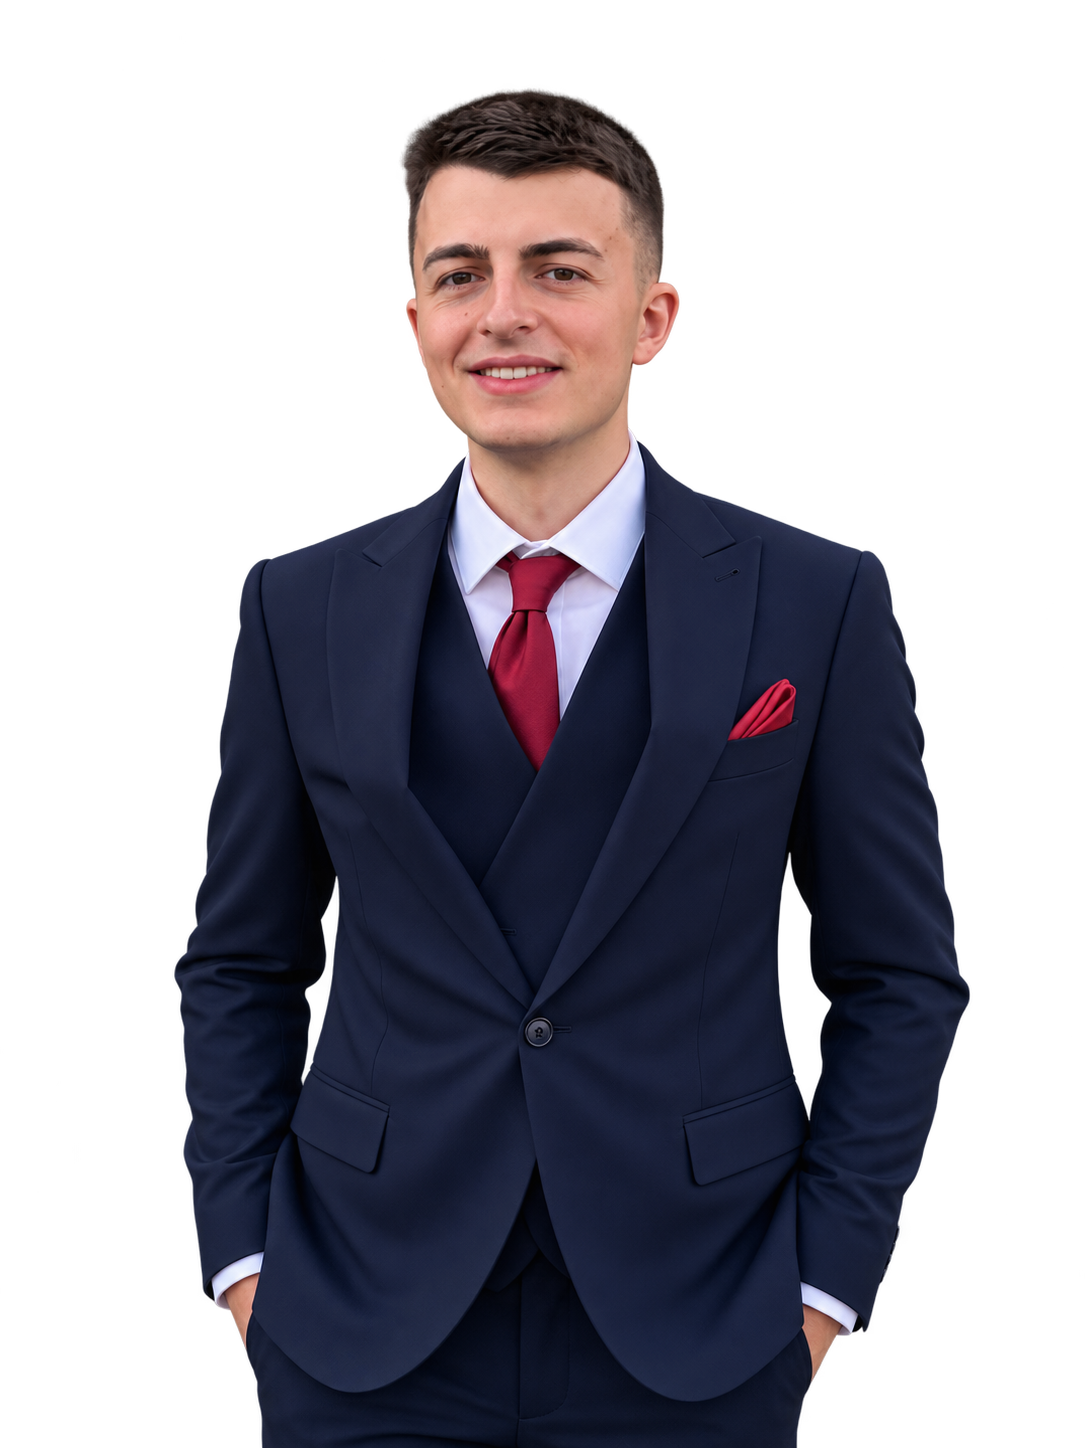
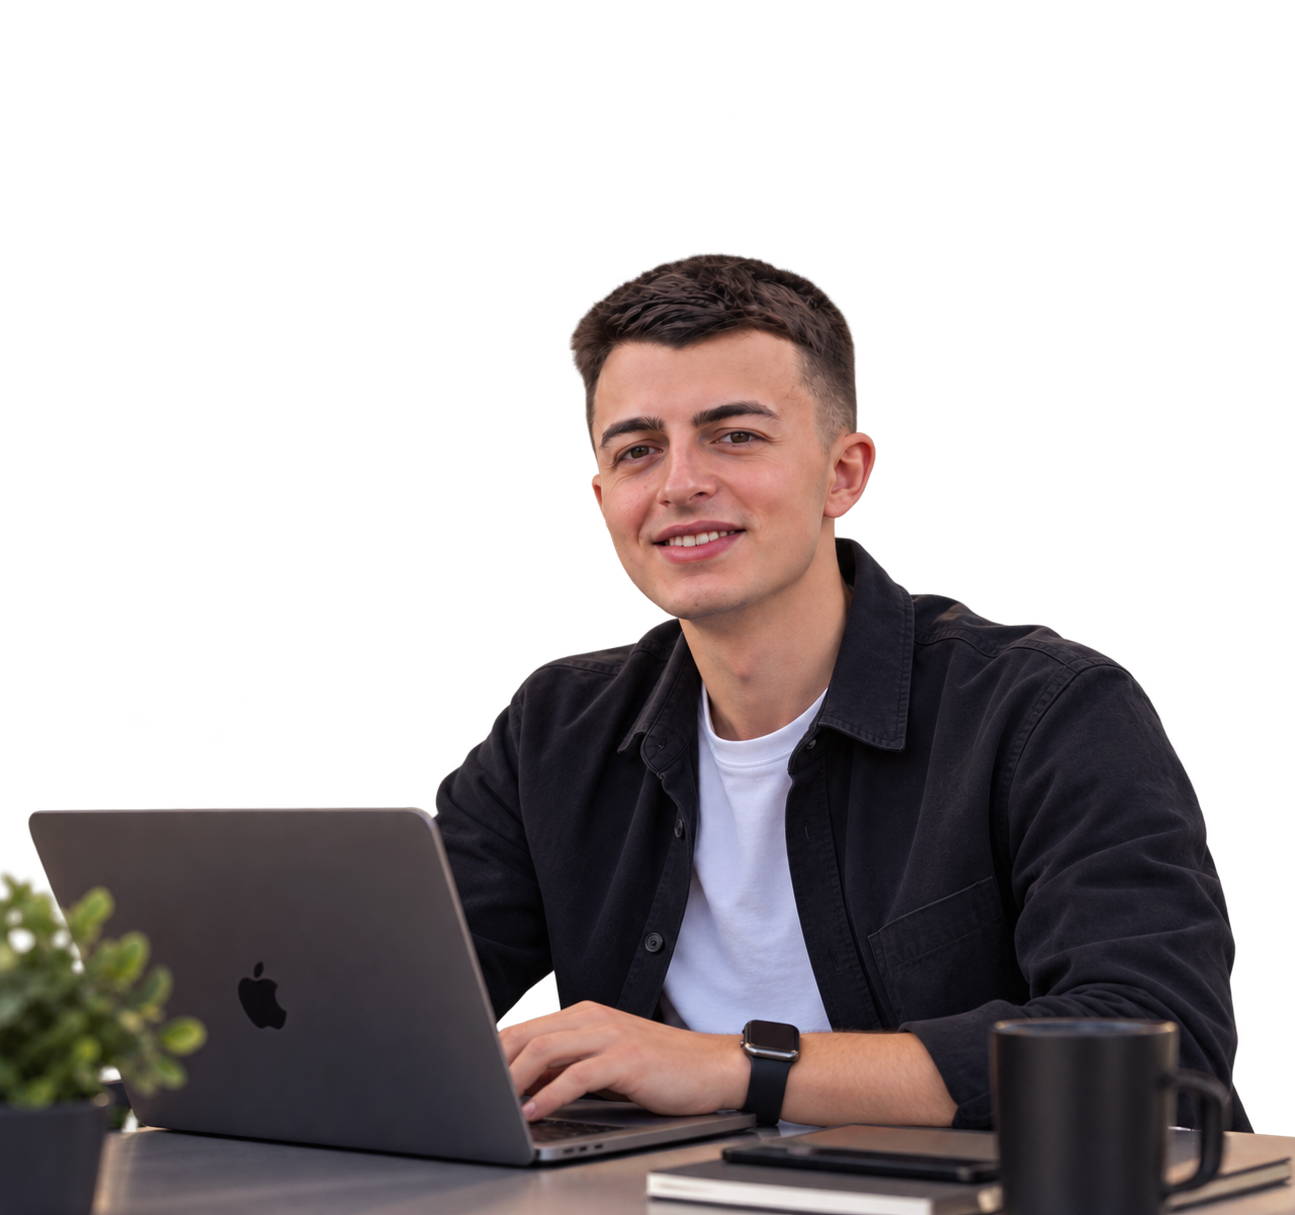
feat: enhance service descriptions, add Medium link, and implement ProcessTimeline component

diff --git a/src/site/landing/ProcessTimeline.tsx b/src/site/landing/ProcessTimeline.tsx
@@ -1,0 +1,121 @@
+"use client";
+import * as React from "react";
+import { motion, useMotionValue, useMotionValueEvent, useReducedMotion, useScroll, useSpring } from "motion/react";
+import { iconFor } from "@/site/icons";
+import { ease as E } from "@/tokens/motion";
+import type { ProcessStep } from "@/content/content";
+
+/** Centre of a 15px checkpoint dot that sits 6px below its row's top. */
+const DOT_CENTER = 13.5;
+
+/**
+ * The delivery path as a vertical rail. A yellow marker is tied to scroll: it leaves the first checkpoint, visits each one
+ * in turn and reaches the last as the list scrolls past, and walks back the same way on a reverse scroll.
+ * Checkpoints it has passed keep a yellow ring, and the rail fills behind it. Reduced motion gets the finished state.
+ */
+export function ProcessTimeline({ steps }: { steps: ProcessStep[] }) {
+  const reduce = !!useReducedMotion();
+  const listRef = React.useRef<HTMLOListElement>(null);
+  /** Vertical centre of every checkpoint, measured from the top of the list. */
+  const [dots, setDots] = React.useState<number[]>([]);
+  const [reached, setReached] = React.useState(0);
+
+  React.useLayoutEffect(() => {
+    const list = listRef.current;
+    if (!list) return;
+    const measure = () => {
+      const top = list.getBoundingClientRect().top;
+      setDots(Array.from(list.querySelectorAll<HTMLElement>("[data-dot]"), (d) => {
+        const r = d.getBoundingClientRect();
+        return r.top - top + r.height / 2;
+      }));
+    };
+    measure();
+    const ro = new ResizeObserver(measure);
+    ro.observe(list);
+    return () => ro.disconnect();
+  }, [steps.length]);
+
+  const { scrollYProgress } = useScroll({ target: listRef, offset: ["start 65%", "end 55%"] });
+  const progress = useSpring(scrollYProgress, { stiffness: 140, damping: 30, mass: 0.4 });
+  const markerY = useMotionValue(DOT_CENTER);
+  const fillH = useMotionValue(0);
+
+  const place = React.useCallback((p: number) => {
+    if (dots.length < 2) return;
+    const first = dots[0], last = dots[dots.length - 1];
+    const y = first + Math.min(Math.max(p, 0), 1) * (last - first);
+    markerY.set(y);
+    fillH.set(y - first);
+    const n = dots.filter((d) => d <= y + 1).length;
+    setReached((prev) => (prev === n ? prev : n));
+  }, [dots, markerY, fillH]);
+
+  useMotionValueEvent(progress, "change", place);
+  React.useEffect(() => { place(progress.get()); }, [place, progress]);
+
+  const first = dots[0] ?? DOT_CENTER;
+  const trackH = dots.length > 1 ? dots[dots.length - 1] - first : 0;
+
+  return (
+    <ol ref={listRef} className="relative m-0 mt-10 lg:mt-12 p-0 list-none">
+      {/* Rail: a dim track between the first and last checkpoint, and the part already travelled. */}
+      <span aria-hidden className="absolute left-[6.75px] w-[1.5px] bg-white opacity-20" style={{ top: first, height: trackH }} />
+      <motion.span
+        aria-hidden
+        className="absolute left-[6.75px] w-[1.5px] bg-yellow"
+        style={{ top: first, height: reduce ? trackH : fillH }}
+      />
+
+      {steps.map((ph, n) => {
+        const last = n === steps.length - 1;
+        const visited = reduce || n < reached;
+        return (
+          <li key={ph.name} className={`relative pl-10 lg:pl-14 ${last ? "" : "pb-[2.25rem] lg:pb-[2.75rem]"}`}>
+            <span
+              aria-hidden
+              data-dot
+              className={`absolute left-0 top-[6px] h-[15px] w-[15px] rounded-full border-[1.5px] border-solid transition-colors duration-base ease-out ${
+                reduce && last ? "border-yellow bg-yellow" : visited ? "border-yellow bg-ink" : "border-white bg-ink"
+              }`}
+            />
+            <div className="lg:grid lg:grid-cols-[15rem_minmax(0,1fr)] lg:gap-10">
+              <h4 className="m-0 font-display font-regular text-lead text-white text-balance">{ph.name}</h4>
+              <div className="mt-2 lg:mt-0">
+                <p className="m-0 max-w-[34rem] font-body text-body-md text-muted-on-dark">{ph.text}</p>
+                {ph.handover && (
+                  <motion.div
+                    className="mt-5 flex max-w-[34rem] items-start gap-4 rounded-md bg-yellow p-4 lg:p-5 text-ink"
+                    {...(reduce ? {} : {
+                      initial: { opacity: 0, y: 10 },
+                      whileInView: { opacity: 1, y: 0 },
+                      viewport: { once: true, amount: 0.6 },
+                      transition: { duration: 0.6, delay: 0.2, ease: E.out },
+                    })}
+                  >
+                    <span aria-hidden className="hidden sm:inline-flex h-10 w-10 shrink-0 items-center justify-center rounded-full bg-white">
+                      {iconFor("shipped", 20)}
+                    </span>
+                    <p className="m-0 font-body text-body-md text-pretty">
+                      <strong className="block font-display font-regular text-lead">{ph.handover.label}</strong>
+                      {ph.handover.text}
+                    </p>
+                  </motion.div>
+                )}
+              </div>
+            </div>
+          </li>
+        );
+      })}
+
+      {/* The marker rides above the rail; it is decoration, the steps themselves carry the meaning. */}
+      {!reduce && (
+        <motion.span
+          aria-hidden
+          className="pointer-events-none absolute left-[-3px] top-[-10.5px] h-[21px] w-[21px] rounded-full bg-yellow ring-4 ring-ink"
+          style={{ y: markerY }}
+        />
+      )}
+    </ol>
+  );
+}

diff --git a/src/content/content.ts b/src/content/content.ts
@@ -5,8 +5,12 @@ export type IconKey =
   | "audit" | "implement" | "platform" | "legacy" | "agents" | "code" | "process" | "steps" | "shipped" | "mentor" | "stack" | "years";
 
 export interface NavLink { label: string; href: string }
-/** One step of the Discover → Build → Test & launch path shared by all services. */
-export interface ProcessStep { name: string; text: string }
+/** One step of the Discovery → Plan → Build & Test → Performance & resilience tests → Canary deployment path shared by all services. */
+export interface ProcessStep {
+  name: string; text: string;
+  /** Yellow callout under the step's text: what the client takes away at this point. */
+  handover?: { label: string; text: string };
+}
 /** 01: one inbound document run through the agent, its guardrails, and out to an API or a person. */
 export interface AgentCase {
   file: string; from: string;
@@ -63,7 +67,7 @@ export interface PrivacySection { title: string; paragraphs: string[]; email?: b
 const YEARS = "5+";
 const INDUSTRIES = "Retail";
 
-const social = { linkedin: "https://www.linkedin.com/in/andrei-chelariu-8a7a86204/", github: "https://github.com/chelariu-andrei" };
+const social = { linkedin: "https://www.linkedin.com/in/andrei-chelariu-8a7a86204/", github: "https://github.com/chelariu-andrei", medium: "https://medium.com/@chelariu.webusiness" };
 
 export const content = {
   site: {
@@ -76,6 +80,7 @@ export const content = {
     email: "chelariu.andrew@gmail.com",
     linkedin: social.linkedin,
     github: social.github,
+    medium: social.medium,
     /** Europass CV, served from /public. */
     europass: "/EUROPASS_CV.pdf",
     photo: "/me.png",
@@ -87,8 +92,8 @@ export const content = {
   },
   nav: {
     links: [
-      { label: "Home", href: "/" },
-      { label: "About", href: "/about" },
+      { label: "Services", href: "/" },
+      { label: "About me", href: "/about" },
     ] as NavLink[],
     cta: "Book a call",
   },
@@ -98,6 +103,7 @@ export const content = {
     connectTitle: "Connect",
     linkedinLabel: "LinkedIn",
     githubLabel: "GitHub",
+    mediumLabel: "Medium",
     emailLabel: "Email",
     europassLabel: "Europass CV",
     privacy: "No cookies. Privacy-friendly analytics.",
@@ -167,9 +173,15 @@ export const content = {
       process: {
         title: "How it runs",
         steps: [
-          { name: "Discover", text: "Map your workflows, systems and data, then agree a prioritized scope." },
-          { name: "Build", text: "Implement against your APIs and data, with guardrails and tests at every step." },
-          { name: "Test & launch", text: "Test on real cases, ship to production and hand over with docs." },
+          { name: "Discovery", text: "Map your workflows, systems and data. Agree the goal and what “done” means." },
+          { name: "Plan", text: "Write down scope, architecture, milestones and risks, so you know what ships and when." },
+          { name: "Build & Test", text: "Build in small steps against your real APIs and data, with guardrails and automated tests at each one." },
+          { name: "Performance & resilience tests", text: "Check it under load, with bad input and with a dependency down, before real users see it." },
+          {
+            name: "Canary deployment",
+            text: "Release to a small share of traffic, watch the metrics, then widen. Rollback is one switch.",
+            handover: { label: "Handover & ongoing support", text: "Docs and a runbook on delivery." },
+          },
         ] as ProcessStep[],
       },
       pick: "Take one service, or combine several:",

diff --git a/src/site/landing/ServicesOverview.tsx b/src/site/landing/ServicesOverview.tsx
@@ -2,6 +2,7 @@
 import { ArrowDown, Sun } from "lucide-react";
 import { motion, useReducedMotion } from "motion/react";
 import { StepPill } from "@/primitives/StepPill";
+import { ProcessTimeline } from "@/site/landing/ProcessTimeline";
 import { Reveal, Stagger, StaggerItem } from "@/motion/Reveal";
 import { iconFor } from "@/site/icons";
 import { content } from "@/content/content";
@@ -70,33 +71,7 @@ export function ServicesOverview() {
         <Reveal>
           <div className="ac-dark rounded-lg lg:rounded-xl bg-ink text-white px-6 py-10 md:px-10 lg:px-14 lg:py-14">
             <h3 className="m-0 font-display font-regular text-heading-lg text-white">{o.process.title}</h3>
-            <ol className="m-0 mt-10 lg:mt-12 p-0 list-none flex flex-col gap-8 lg:grid lg:grid-cols-3 lg:gap-0">
-              {o.process.steps.map((ph, n) => {
-                const last = n === o.process.steps.length - 1;
-                const grow = (axis: "x" | "y") => reduce ? {} : {
-                  initial: { opacity: 0, [axis === "x" ? "scaleX" : "scaleY"]: 0 },
-                  whileInView: { opacity: 0.6, [axis === "x" ? "scaleX" : "scaleY"]: 1 },
-                  viewport: { once: true, amount: 0.8 },
-                  transition: { duration: 0.6, delay: 0.25 + n * 0.35, ease: E.out },
-                };
-                return (
-                  <li key={ph.name} className="relative pl-10 lg:pl-0 lg:pr-10">
-                    <span
-                      aria-hidden
-                      className={`absolute left-0 top-[6px] lg:static lg:block h-[15px] w-[15px] rounded-full border-[1.5px] border-solid ${last ? "border-yellow bg-yellow" : "border-white bg-ink"}`}
-                    />
-                    {!last && (
-                      <>
-                        <motion.span aria-hidden className="lg:hidden absolute left-[7px] top-[27px] -bottom-[26px] w-[1.5px] origin-top bg-yellow opacity-60" {...grow("y")} />
-                        <motion.span aria-hidden className="hidden lg:block absolute left-[23px] right-[8px] top-[7px] h-[1.5px] origin-left bg-yellow opacity-60" {...grow("x")} />
-                      </>
-                    )}
-                    <h4 className="m-0 lg:mt-6 font-display font-regular text-lead text-white">{ph.name}</h4>
-                    <p className="m-0 mt-2 max-w-[22rem] font-body text-body-md text-muted-on-dark">{ph.text}</p>
-                  </li>
-                );
-              })}
-            </ol>
+            <ProcessTimeline steps={o.process.steps} />
           </div>
         </Reveal>
       </div>

diff --git a/src/site/Footer.tsx b/src/site/Footer.tsx
@@ -1,6 +1,6 @@
 "use client";
 import { Mail, FileUser } from "lucide-react";
-import { Linkedin, Github } from "@/icons/brand";
+import { Linkedin, Github, Medium } from "@/icons/brand";
 import { SiteFooter } from "@/layout/SiteFooter";
 import { content } from "@/content/content";
 import { CONTACT_FALLBACK, isSet, mailtoHref } from "@/content/links";
@@ -15,6 +15,7 @@ export function Footer({ year }: FooterProps) {
   const socials = [
     ...(isSet(site.linkedin) ? [{ label: footer.linkedinLabel, href: site.linkedin, icon: icon(Linkedin) }] : []),
     ...(isSet(site.github) ? [{ label: footer.githubLabel, href: site.github, icon: icon(Github) }] : []),
+    ...(isSet(site.medium) ? [{ label: footer.mediumLabel, href: site.medium, icon: icon(Medium) }] : []),
     ...(isSet(site.email) ? [{ label: footer.emailLabel, href: mailtoHref(site.email), icon: icon(Mail) }] : []),
     ...(isSet(site.europass) ? [{ label: footer.europassLabel, href: site.europass, icon: icon(FileUser) }] : []),
   ];

diff --git a/src/site/seo.ts b/src/site/seo.ts
@@ -18,11 +18,11 @@ export function pageMetadata(key: "landing" | "about" | "privacy" | "notFound", 
 }
 
 export function jsonLd(): string {
-  const { name, role, linkedin, github, areaServed } = content.site;
+  const { name, role, linkedin, github, medium, areaServed } = content.site;
   const graph = {
     "@context": "https://schema.org",
     "@graph": [
-      { "@type": "Person", "@id": `${SITE_URL}/#person`, name, jobTitle: role, url: SITE_URL, sameAs: [linkedin, github].filter(isSet) },
+      { "@type": "Person", "@id": `${SITE_URL}/#person`, name, jobTitle: role, url: SITE_URL, sameAs: [linkedin, github, medium].filter(isSet) },
       { "@type": "ProfessionalService", "@id": `${SITE_URL}/#service`, name: `${name}, ${role}`, url: SITE_URL, description: content.seo.landing.description, provider: { "@id": `${SITE_URL}/#person` }, areaServed },
     ],
   };

diff --git a/src/icons/brand.ts b/src/icons/brand.ts
@@ -18,3 +18,10 @@ export const Instagram = createLucideIcon("Instagram", [
   ["path", { d: "M16 11.37A4 4 0 1 1 12.63 8 4 4 0 0 1 16 11.37z", key: "9exkf1" }],
   ["line", { x1: "17.5", x2: "17.51", y1: "6.5", y2: "6.5", key: "r4j83e" }],
 ]);
+
+// Medium has no lucide glyph; this is a stroke redraw of its mark (large circle, tall ellipse, thin bar) so it matches the set.
+export const Medium = createLucideIcon("Medium", [
+  ["circle", { cx: "7.5", cy: "12", r: "5.5", key: "m1" }],
+  ["ellipse", { cx: "17", cy: "12", rx: "2.5", ry: "5", key: "m2" }],
+  ["line", { x1: "22", x2: "22", y1: "7.5", y2: "16.5", key: "m3" }],
+]);

diff --git a/src/layout/SiteFooter.tsx b/src/layout/SiteFooter.tsx
@@ -69,7 +69,7 @@ export function SiteFooter({ tagline, ctas = [], columns, socials = [], socialsT
           )}
         </div>
         <div className="flex flex-col gap-8">
-          {logo ?? <Logo tone="white" size="xl" />}
+          {logo ?? <Logo tone="white" size="xl" href="/" />}
           <div className="flex flex-wrap gap-x-10 gap-y-2 font-body text-sm text-subtle-on-dark">
             <span>{copyright}</span>
             {legal.map((l) => <a key={l.href} href={l.href} className="ac-focus rounded-sm text-subtle-on-dark no-underline hover:text-white">{l.label}</a>)}

diff --git a/PRODUCT.md b/PRODUCT.md
@@ -16,7 +16,7 @@ Personal site of Andrei Chelariu, a freelance senior backend engineer (AI-powere
 Adds AI agents and automation to existing Java/Spring systems without a rewrite and without breaking production: one engineer with enterprise Java depth (5+ years, retail), working in small, fixed-scope steps with guardrails, tests and handover.
 
 ## Operating Context
-Three fixed-scope services sharing one path (discover, build, test and launch): AI Automation, Custom Software, Legacy Modernization. Booking happens in a site-wide step-by-step popup (day, time, name and email, phone, topic, review), backed by a Google Apps Script that reads and writes Google Calendar (`integrations/google-calendar/`, `bookingUrl`); every "Book a call" link (`/#book`) opens it in place, on any page; contact also by email, LinkedIn, GitHub and a Europass CV served from /public.
+Three fixed-scope services sharing one path (discovery, plan, build and test, performance and resilience tests, canary deployment with handover): AI Automation, Custom Software, Legacy Modernization. Booking happens in a site-wide step-by-step popup (day, time, name and email, phone, topic, review), backed by a Google Apps Script that reads and writes Google Calendar (`integrations/google-calendar/`, `bookingUrl`); every "Book a call" link (`/#book`) opens it in place, on any page; contact also by email, LinkedIn, GitHub and a Europass CV served from /public.
 
 ## Capabilities and Constraints
 - Pages: Home (hero, services, stats, contact), About, Privacy (GDPR: booking data, analytics, hosting, rights), and a 404 page for unknown addresses.
